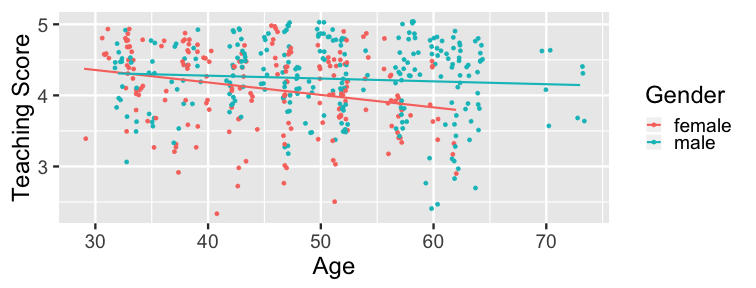
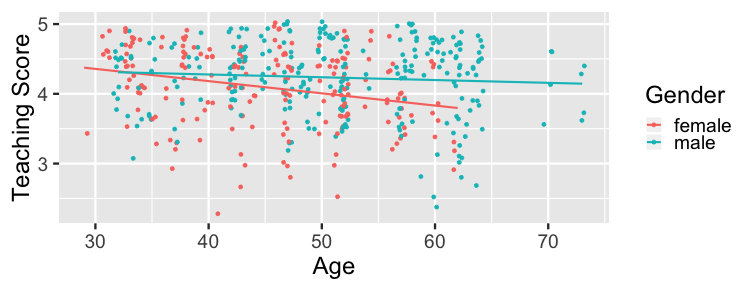
Switch ochin slides to use moderndive data sets

diff --git a/ochin-ismay/slide_deck.html b/ochin-ismay/slide_deck.html
@@ -429,6 +429,7 @@ ratings &lt;- read_csv("http://bit.ly/ratings-csv",
 ratings
 ```
 
+
 ```
 # A tibble: 8 x 11
   series    e1    e2    e3    e4    e5    e6    e7    e8    e9
@@ -443,6 +444,7 @@ ratings
 8 8       9.46  9.23  8.68  8.55  8.61  8.61  9.01  8.95  9.03
 # ... with 1 more variable: e10 &lt;dbl&gt;
 ```
+
 
 - What if we'd like to plot average 7 day viewership for each episode?
 ---
@@ -497,7 +499,7 @@ ggplot(tidy_ratings, aes(x = episode_count, y = viewers_7day,
                          fill = series)) + geom_col() 
 ```
 
-![](slide_deck_files/figure-html/unnamed-chunk-16-1.png)&lt;!-- --&gt;
+![](slide_deck_files/figure-html/unnamed-chunk-17-1.png)&lt;!-- --&gt;
 
 --
 
@@ -537,25 +539,27 @@ class: inverse
 
 
 ```r
-download.file("http://bit.ly/evals-rds", destfile = "data/evals.rds")
-( evals &lt;- read_rds("data/evals.rds") )
+library(moderndive)
+evals
 ```
 
 ```
-# A tibble: 463 x 4
-   score bty_avg   age gender
-   &lt;dbl&gt;   &lt;dbl&gt; &lt;int&gt; &lt;fct&gt; 
- 1   4.7    5       36 female
- 2   4.1    5       36 female
- 3   3.9    5       36 female
- 4   4.8    5       36 female
- 5   4.6    3       59 male  
- 6   4.3    3       59 male  
- 7   2.8    3       59 male  
- 8   4.1    3.33    51 male  
- 9   3.4    3.33    51 male  
-10   4.5    3.17    40 female
-# ... with 453 more rows
+# A tibble: 463 x 13
+      ID score   age bty_avg gender ethnicity   language rank   
+   &lt;int&gt; &lt;dbl&gt; &lt;int&gt;   &lt;dbl&gt; &lt;fct&gt;  &lt;fct&gt;       &lt;fct&gt;    &lt;fct&gt;  
+ 1     1   4.7    36    5    female minority    english  tenure…
+ 2     2   4.1    36    5    female minority    english  tenure…
+ 3     3   3.9    36    5    female minority    english  tenure…
+ 4     4   4.8    36    5    female minority    english  tenure…
+ 5     5   4.6    59    3    male   not minori… english  tenured
+ 6     6   4.3    59    3    male   not minori… english  tenured
+ 7     7   2.8    59    3    male   not minori… english  tenured
+ 8     8   4.1    51    3.33 male   not minori… english  tenured
+ 9     9   3.4    51    3.33 male   not minori… english  tenured
+10    10   4.5    40    3.17 female not minori… english  tenured
+# ... with 453 more rows, and 5 more variables:
+#   pic_outfit &lt;fct&gt;, pic_color &lt;fct&gt;, cls_did_eval &lt;int&gt;,
+#   cls_students &lt;int&gt;, cls_level &lt;fct&gt;
 ```
 
 ---
@@ -570,7 +574,7 @@ ggplot(evals, aes(x = age, y = score, col = gender)) +
   geom_smooth(method = "lm", se = FALSE)
 ```
 
-![](slide_deck_files/figure-html/unnamed-chunk-18-1.png)&lt;!-- --&gt;
+![](slide_deck_files/figure-html/unnamed-chunk-19-1.png)&lt;!-- --&gt;
 
 ---
 
@@ -585,12 +589,12 @@ get_regression_table(score_model_interaction)
 
 ```
 # A tibble: 4 x 7
-  term   estimate std_error statistic p_value conf_low conf_high
-  &lt;chr&gt;     &lt;dbl&gt;     &lt;dbl&gt;     &lt;dbl&gt;   &lt;dbl&gt;    &lt;dbl&gt;     &lt;dbl&gt;
-1 inter…    4.88      0.205     23.8    0        4.48      5.29 
-2 age      -0.018     0.004     -3.92   0       -0.026    -0.009
-3 gende…   -0.446     0.265     -1.68   0.094   -0.968     0.076
-4 age:g…    0.014     0.006      2.45   0.015    0.003     0.024
+  term    estimate std_error statistic p_value lower_ci upper_ci
+  &lt;chr&gt;      &lt;dbl&gt;     &lt;dbl&gt;     &lt;dbl&gt;   &lt;dbl&gt;    &lt;dbl&gt;    &lt;dbl&gt;
+1 interc…    4.88      0.205     23.8    0        4.48     5.29 
+2 age       -0.018     0.004     -3.92   0       -0.026   -0.009
+3 gender…   -0.446     0.265     -1.68   0.094   -0.968    0.076
+4 age:ge…    0.014     0.006      2.45   0.015    0.003    0.024
 ```
 
 ---
@@ -633,7 +637,7 @@ class: inverse
 
 ```r
 library(infer)
-mythbusters_yawn &lt;- read_rds(url("http://bit.ly/mythbusters_yawn-rds"))
+library(moderndive)
 mythbusters_yawn %&gt;% 
   specify(formula = yawn ~ group, success = "yes") %&gt;% 
   generate(reps = 1000) %&gt;% 
@@ -645,7 +649,7 @@ mythbusters_yawn %&gt;%
 # A tibble: 1 x 2
   `2.5%` `97.5%`
    &lt;dbl&gt;   &lt;dbl&gt;
-1 -0.233   0.304
+1 -0.228   0.301
 ```
 
 
